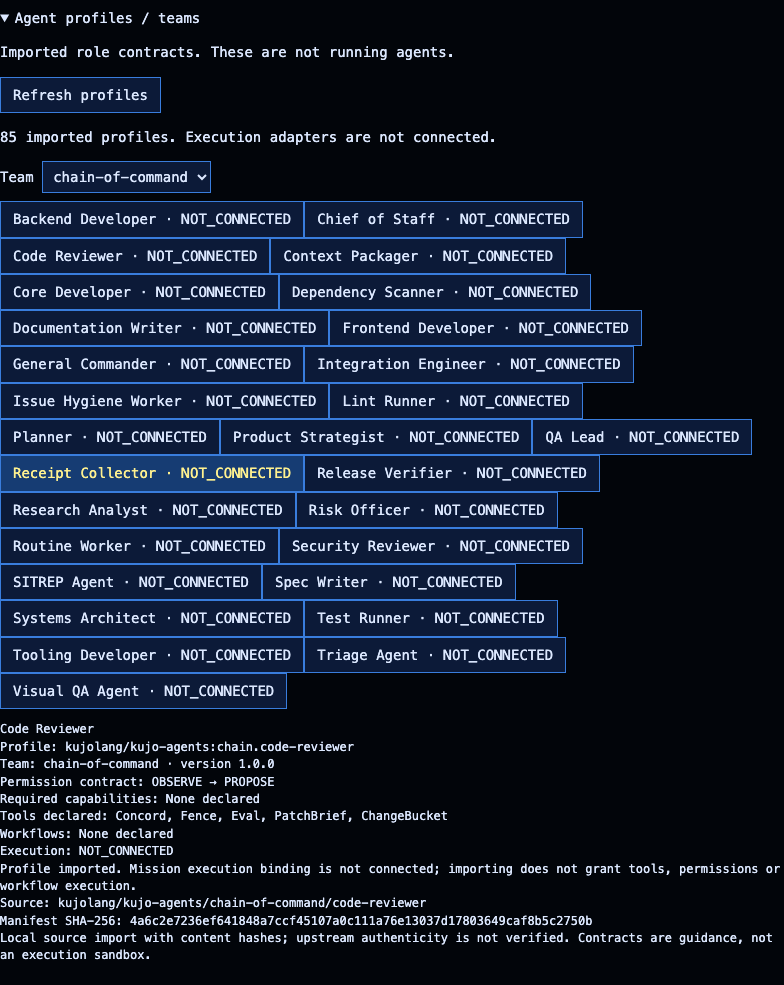
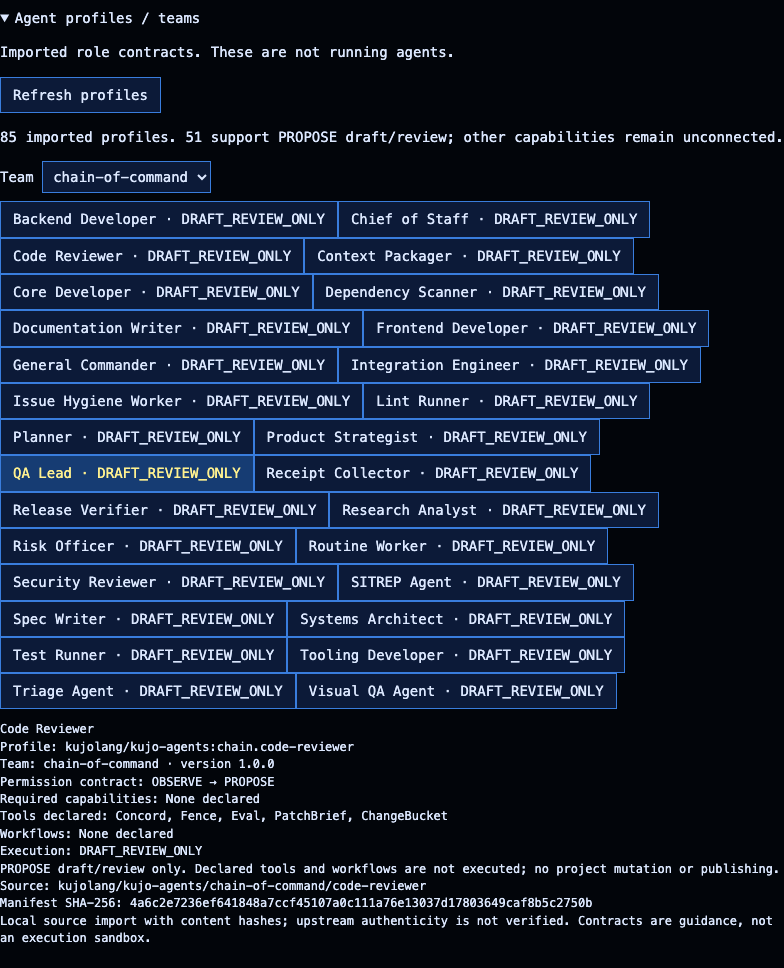
Expose custom profile selection and record real execution limits

diff --git a/apps/web/missions.ts b/apps/web/missions.ts
@@ -20,6 +20,7 @@ export function mountMissions(
     </form></details>
     <p id="continuation-status" role="status">New mission</p><button id="clear-continuation" type="button" hidden>Cancel follow-up</button>
     <form id="mission-form"><label>Task type <select name="kind"><option value="writing">Writing + review</option><option value="code">JavaScript + review</option><option value="kujo">Kujo + senior review (real MCP)</option></select></label>
+    <details><summary>Custom author / reviewer</summary><p>Optional imported profiles. PROPOSE drafts only; tool/workflow execution is not connected. Leave both fields blank for built-in agents. Continuations retain their original contracts.</p><label>Author profile <select name="authorProfile"><option value="">Built-in author</option></select></label><label>Reviewer profile <select name="reviewerProfile"><option value="">Built-in reviewer</option></select></label><button type="button" id="refresh-team-options">Refresh imported profiles</button><p id="team-options-status" role="status"></p></details>
     <label><input type="checkbox" name="allowCheckins" checked> Allow agent questions (reply within 3 minutes)</label>
     <label><input type="checkbox" name="useLocalDocs"> Use indexed local Kujo docs</label>
     <label><input type="checkbox" name="useMcpDocs"> Read local MCP demo README</label>
@@ -69,7 +70,7 @@ export function mountMissions(
             label.textContent =
               entry.kind === "user.reply"
                 ? "YOU · recorded reply"
-                : `${entry.agent} · actual model response`;
+                : `${(entry.agent === "reviewer" ? data.profiles?.reviewer?.name : ["writer", "coder"].includes(entry.agent) ? data.profiles?.author?.name : null) || entry.agent} · actual model response`;
             const identity = document.createElement("small");
             identity.textContent = `${entry.producer}:${entry.run}:${entry.agent}`;
             const text = document.createElement("pre");
@@ -132,7 +133,7 @@ export function mountMissions(
   };
   const form = panel.querySelector<HTMLFormElement>("#mission-form")!;
   const modelForm = panel.querySelector<HTMLFormElement>("#model-form")!;
-  const submit = form.querySelector("button")!;
+  const submit = form.querySelector<HTMLButtonElement>("button[type=submit]")!;
   const status = panel.querySelector<HTMLElement>("#mission-status")!;
   const output = panel.querySelector<HTMLElement>("#mission-artifact")!;
   const history = panel.querySelector<HTMLElement>("#mission-jobs")!;
@@ -203,7 +204,7 @@ export function mountMissions(
         history.replaceChildren();
         for (const job of data.jobs) {
           const button = document.createElement("button");
-          button.textContent = `${job.kind} / ${job.status} / ${job.id.slice(-8)}${job.parentMissionId ? " · follows " + job.parentMissionId.slice(-8) : ""}`;
+          button.textContent = `${job.profiles ? job.profiles.author.name + " → " + job.profiles.reviewer.name + " / " : ""}${job.kind} / ${job.status} / ${job.id.slice(-8)}${job.parentMissionId ? " · follows " + job.parentMissionId.slice(-8) : ""}`;
 
           button.onclick = async () => {
             if (!replay) {
@@ -365,6 +366,14 @@ export function mountMissions(
         body: JSON.stringify({
           kind: parent?.kind || fields.get("kind"),
           prompt: fields.get("prompt"),
+          ...(fields.get("authorProfile") || fields.get("reviewerProfile")
+            ? {
+                profiles: {
+                  authorId: fields.get("authorProfile"),
+                  reviewerId: fields.get("reviewerProfile"),
+                },
+              }
+            : {}),
           allowCheckins: fields.has("allowCheckins"),
           useLocalDocs: fields.has("useLocalDocs"),
           useMcpDocs: fields.has("useMcpDocs"),
@@ -422,6 +431,43 @@ export function mountMissions(
       pending = false;
     }
   };
+  const teamStatus = panel.querySelector<HTMLElement>("#team-options-status")!;
+  panel.querySelector<HTMLButtonElement>("#refresh-team-options")!.onclick =
+    async () => {
+      try {
+        const response = await fetch("/control/agents");
+        if (!response.ok) throw Error();
+        const data = await response.json();
+        for (const [field, label] of [
+          ["authorProfile", "Built-in author"],
+          ["reviewerProfile", "Built-in reviewer"],
+        ]) {
+          const select = form.elements.namedItem(field) as HTMLSelectElement;
+          const previous = select.value;
+          select.replaceChildren(new Option(label, ""));
+          for (const profile of data.profiles) {
+            const option = new Option(
+              `${profile.name} / ${profile.team} / ${profile.executionStatus}`,
+              profile.id,
+            );
+            option.disabled = profile.executionStatus !== "DRAFT_REVIEW_ONLY";
+            select.add(option);
+          }
+          if (
+            [...Array.from(select.options)].some(
+              (option) => option.value === previous,
+            )
+          )
+            select.value = previous;
+        }
+        teamStatus.textContent = data.imported
+          ? "Choose author and reviewer profiles. Separate execution instances are created, even if the profile is shared. Unavailable capability contracts cannot be selected."
+          : "Import a Kujo agent catalog first.";
+      } catch {
+        teamStatus.textContent =
+          "Catalog unavailable; no profiles selected automatically.";
+      }
+    };
   const modelCheck = panel.querySelector<HTMLElement>("#model-check-status")!;
   const localModels = panel.querySelector<HTMLSelectElement>("#local-models")!;
   localModels.onchange = () => {

diff --git a/scripts/profile-browser-proof.ts b/scripts/profile-browser-proof.ts
@@ -1,0 +1,95 @@
+import { chromium } from "@playwright/test";
+import { localChromiumPath } from "../apps/runner/browser-path";
+import { readFile, writeFile } from "node:fs/promises";
+import assert from "node:assert/strict";
+const proof = JSON.parse(
+  await readFile("evidence/profile-missions/real/proof.json", "utf8"),
+);
+const browser = await chromium.launch({
+  headless: true,
+  executablePath: await localChromiumPath(),
+});
+try {
+  const page = await browser.newPage({
+    viewport: { width: 1440, height: 1000 },
+  });
+  await page.goto(process.env.CITY_BROWSER_URL || "http://127.0.0.1:5178");
+  await page.waitForFunction(
+    (id) =>
+      Object.values((window as any).agentCity?.truth.agents || {}).some(
+        (a: any) => a.id.includes(id),
+      ),
+    proof.mission,
+  );
+  await page.getByText("Custom author / reviewer", { exact: true }).click();
+  await page
+    .getByRole("button", { name: "Refresh imported profiles", exact: true })
+    .click();
+  await page.waitForFunction(
+    () =>
+      document.querySelectorAll("select[name=authorProfile] option").length ===
+      86,
+  );
+  await page
+    .locator("select[name=authorProfile]")
+    .selectOption(proof.profiles.author.id);
+  await page
+    .locator("select[name=reviewerProfile]")
+    .selectOption(proof.profiles.reviewer.id);
+  assert(
+    await page
+      .locator(
+        'select[name=authorProfile] option[value="kujolang/kujo-agents:webops.webops-reporter"]',
+      )
+      .evaluate((option) => (option as HTMLOptionElement).disabled),
+  );
+  const agents = (await page.evaluate(
+    (id) =>
+      Object.values((window as any).agentCity.truth.agents).filter((a: any) =>
+        a.id.includes(id),
+      ),
+    proof.mission,
+  )) as any[];
+  assert(agents.some((a) => a.profile === proof.profiles.author.id));
+  assert(agents.some((a) => a.profile === proof.profiles.reviewer.id));
+  await page
+    .locator("#roster button")
+    .filter({ hasText: "documentation-writer" })
+    .first()
+    .click();
+  await page.locator("#follow").click();
+  await page.screenshot({
+    path: "evidence/profile-missions/real/browser.png",
+    fullPage: true,
+  });
+  const observed = await page.evaluate(() => ({
+    scene: (window as any).agentCity.scene,
+    selected: (window as any).agentCity.selected,
+    rendererReady: (window as any).agentCity.rendererReady,
+  }));
+  const evidence = {
+    scope:
+      "Retained real observations delivered through Watchdog/gateway to browser; no replay-generated source work",
+    mission: proof.mission,
+    agents: agents.map((a) => ({
+      id: a.id,
+      profile: a.profile,
+      status: a.status,
+      completeness: a.completeness,
+    })),
+    unsupportedProfileDisabled: true,
+    selectedProfiles: {
+      author: await page.locator("select[name=authorProfile]").inputValue(),
+      reviewer: await page.locator("select[name=reviewerProfile]").inputValue(),
+    },
+    ...observed,
+    browser: browser.version(),
+  };
+  await writeFile(
+    "evidence/profile-missions/real/browser.json",
+    JSON.stringify(evidence, null, 2) + "\n",
+  );
+  console.log(JSON.stringify(evidence));
+} finally {
+  await browser.close();
+}

diff --git a/scripts/agent-catalog-proof.ts b/scripts/agent-catalog-proof.ts
@@ -16,7 +16,7 @@ try {
     .locator("details")
     .filter({ has: page.getByText("Agent profiles / teams", { exact: true }) });
   await panel
-    .getByText("85 imported profiles. Execution adapters are not connected.", {
+    .getByText(/85 imported profiles\./, {
       exact: true,
     })
     .waitFor();
@@ -27,14 +27,19 @@ try {
   assert.equal(new Set(data.profiles.map((p: any) => p.id)).size, 85);
   assert(
     data.profiles.every(
-      (p: any) => p.executionStatus === "NOT_CONNECTED" && !("contracts" in p),
+      (p: any) =>
+        ["DRAFT_REVIEW_ONLY", "NOT_CONNECTED"].includes(p.executionStatus) &&
+        !("contracts" in p),
     ),
   );
   const teams = await panel.locator("select option").allTextContents();
   assert.equal(teams.length, 5);
   await panel.locator("select").selectOption("chain-of-command");
   await panel
-    .getByRole("button", { name: "Code Reviewer · NOT_CONNECTED", exact: true })
+    .getByRole("button", {
+      name: "Code Reviewer · DRAFT_REVIEW_ONLY",
+      exact: true,
+    })
     .click();
   await panel
     .locator("pre")
@@ -49,7 +54,9 @@ try {
     teams: teams.slice(1),
     source: data.source,
     contractTextBroadcast: false,
-    allExecutionBindings: "NOT_CONNECTED",
+    draftReviewProfiles: data.profiles.filter(
+      (p: any) => p.executionStatus === "DRAFT_REVIEW_ONLY",
+    ).length,
     browser: browser.version(),
   };
   await writeFile(

diff --git a/apps/web/agent-catalog.ts b/apps/web/agent-catalog.ts
@@ -50,7 +50,7 @@ export function mountAgentCatalog(host: HTMLElement) {
       ].sort())
         team.add(new Option(name, name));
       status.textContent = catalog.imported
-        ? `${profiles.length} imported profiles. Execution adapters are not connected.`
+        ? `${profiles.length} imported profiles. ${profiles.filter((p) => p.executionStatus === "DRAFT_REVIEW_ONLY").length} support PROPOSE draft/review; other capabilities remain unconnected.`
         : "No catalog imported. Run npm run agents:import -- /path/to/kujo-agents from the Agent City directory. Use the same CITY_PORT_OFFSET as this instance.";
       selected.textContent = "";
       render();

diff --git a/apps/web/main.ts b/apps/web/main.ts
@@ -211,7 +211,7 @@ function renderDOM() {
             "local-mcp-worker": "MCP",
             "local-documentation-worker": "DOCS",
           };
-          b.textContent = `${badge(a.id)} ${roles[a.profile] || "UNKNOWN"} · ${a.id.split(":").at(-1)}`;
+          b.textContent = `${badge(a.id)} ${roles[a.profile] || (a.profile === "unknown" ? "UNKNOWN" : a.profile.split(":").at(-1))} · ${a.id.split(":").at(-1)}`;
           b.prepend(portrait(a.profile));
           b.setAttribute("aria-pressed", String(a.id === selected));
           b.title = a.id;

diff --git a/evidence/profile-missions/README.md b/evidence/profile-missions/README.md
@@ -1,0 +1,37 @@
+# Imported profile execution — 2026-10-07
+
+Implemented: explicit author/reviewer selection from imported contracts, PROPOSE
+permission checks, fail-closed required capabilities, private per-run contract
+snapshots, continuation snapshot retention, source-qualified profile telemetry
+and readable profile names in recorded conversation/history. The current catalog
+has51 draft/review-eligible profiles and34 requiring unavailable capabilities or
+permissions. Execution instances remain distinct even when sharing a profile.
+
+The current adapter runs writing/JavaScript drafts and review only. It does not
+execute catalog workflows, declared tools, project changes, publishing or imported
+skills as commands. Required tool/retrieval/check requests are rejected rather
+than silently downgraded. Full ecosystem execution remains incomplete.
+
+## Evidence
+
+- `fixture/proof.json`: controlled model, actual SDK/Dispatch; author/reviewer role
+  contracts reached the respective requests; unsupported profile/tool requests400;
+  continuation retained exact contracts after removing the catalog.
+- `real/proof.json`: actual local Ollama qwen2.5-coder:1.5b-instruct, Documentation
+  Writer→Code Reviewer, actual handoff and saved output. Runtime completed, but
+  reviewed content incorrectly translated supplied syntax into Go and added APIs.
+- `real/browser.json` / `browser.png`: retained real source observations flowed
+  through Watchdog/gateway into browser truth with the selected profile identities;
+  renderer initialized and capability-ineligible selection was disabled. This is
+  retained evidence delivery, not a claim of live animation timing or task quality.
+- `real/repair-failure.json`: corrective continuation via Ollama glm-5.3:cloud
+  failed in reviewer handoff. Exact provider cause is UNKNOWN. Both original and
+  failed attempts remain, representing four real execution instances in truth.
+
+Full verify69tests/22files, types/maps/boundaries/build passed. The baseline
+SDK/Dispatch/RAG/MCP mission-contract proof also passed after these changes. Real task-quality
+acceptance remains FAIL. No producer repositories changed. No long soak performed.
+Reproduce fixtures with `node --import tsx scripts/profile-mission-proof.ts`;
+set CITY_PROFILE_PROOF_REAL=1 for an explicit real local-model run. Browser proof
+uses CITY_BROWSER_URL and optional CHROMIUM_PATH. Private prompts/contracts/output
+remain in the runtime paths identified by the receipts; they are not SSE telemetry.

diff --git a/README.md b/README.md
@@ -56,7 +56,7 @@ opinions, separate from that actual compiler check. No `.kujo` program is run.
 Verified real mission: `mission-42cf14f1-9892-4cc7-b952-e603a7721061`.
 See [live evidence](evidence/kujo-author-review-codex-checked/README.md).
 The 85-profile Kujo agent registry can now be imported and inspected (see below).
-Using those profiles as mission actors is not connected yet.
+Eligible profiles can now be selected for bounded PROPOSE writing/JavaScript draft-review missions; required capabilities must be available.
 
 ### Ollama or another chat-completions provider
 
@@ -254,6 +254,19 @@ contracts are not sent to the browser or a model. Content hashes identify the
 imported files but do not authenticate their upstream origin. Import only trusted
 source checkouts. Importing does not execute contract instructions.
 
-Profiles remain **NOT_CONNECTED** until mission execution bindings enforce their
-permissions and required capabilities. They do not appear as working citizens,
-replace an execution identity, grant tool access, or automatically start workflows.
+In **Custom author / reviewer**, refresh imported profiles and select the author
+and reviewer. Eligible profiles show **DRAFT_REVIEW_ONLY**: PROPOSE permission,
+no unavailable required capabilities, and no retrieval/MCP/check/project-execution
+requests. Other profiles remain **NOT_CONNECTED**. The current catalog has51
+eligible profiles. This adapter executes the existing author→reviewer SDK handoff,
+not the catalog's named workflows. Declared tools are not automatically granted.
+
+Each mission privately snapshots both contracts. Continuations reuse those snapshots
+even if the catalog changes. Two execution instances can share one profile; the
+source-qualified execution IDs remain distinct. Imported role IDs reach the city
+through actual lifecycle evidence. Profile selection alone creates no citizens.
+
+Real profile execution and browser identity were verified, but task quality is not
+yet qualified: the small-model example invented Go syntax, and a subsequent cloud
+reviewer handoff failed. Both attempts remain recorded. See
+[evidence and limits](evidence/profile-missions/README.md).

diff --git a/evidence/agent-catalog/README.md b/evidence/agent-catalog/README.md
@@ -7,8 +7,7 @@ profile IDs and distinct declared permissions/capabilities/tools/workflows.
 The catalog is an explicit local-source import, not authenticated upstream code.
 
 The real browser proof verified85 unique profile IDs, four team filters, actual
-Code Reviewer contract display, no raw contract text in the response and all
-execution bindings honestly marked NOT_CONNECTED. Screenshot: catalog.png.
+Code Reviewer contract display, no raw contract text in the response and eligible bindings marked DRAFT_REVIEW_ONLY and unavailable bindings marked NOT_CONNECTED. Screenshot: catalog.png.
 Import creates no semantic execution, model request, tool invocation or citizen.
 
 Full verify:67tests/21files, types, boundaries, maps and build passed. Final bounded
@@ -22,6 +21,9 @@ CITY_BROWSER_URL=http://127.0.0.1:9178 node --import tsx scripts/agent-catalog-p
 ```
 
 Set CHROMIUM_PATH when required. This run used installed Google Chrome. The test
-stack was stopped afterward. Binding profiles to real authorized mission execution
-and running custom team workflows remain open; this is not completion evidence
+stack was stopped afterward. Broader authorized capability execution
+and named custom team workflows remain open; this is not completion evidence
 for the complete custom-agent checklist item.
+
+Follow-up: current browser receipt reports51 PROPOSE draft-review profiles. See
+../profile-missions/README.md for actual execution evidence and failed quality gates.

diff --git a/RELEASE-CHECKLIST.md b/RELEASE-CHECKLIST.md
@@ -52,3 +52,10 @@ Catalog checkpoint: all85 canonical registry profiles import with private contra
 content hashes, permission limits, capabilities, tool/workflow references and a
 read-only team browser. Profile execution remains NOT_CONNECTED; custom-team
 mission execution is still required before completing that checklist item.
+
+Profile execution checkpoint:51 profiles eligible for bounded PROPOSE draft/review;
+required capability/permission checks reject unsupported combinations. Per-mission
+contracts survive catalog removal on continuation. Real Ollama SDK handoff and
+Watchdog→gateway→browser profile identity proved. Output-quality check failed on
+the small model; cloud corrective reviewer failed, with both attempts retained.
+Full custom workflows/tools and accepted-quality custom-team proof remain open.
